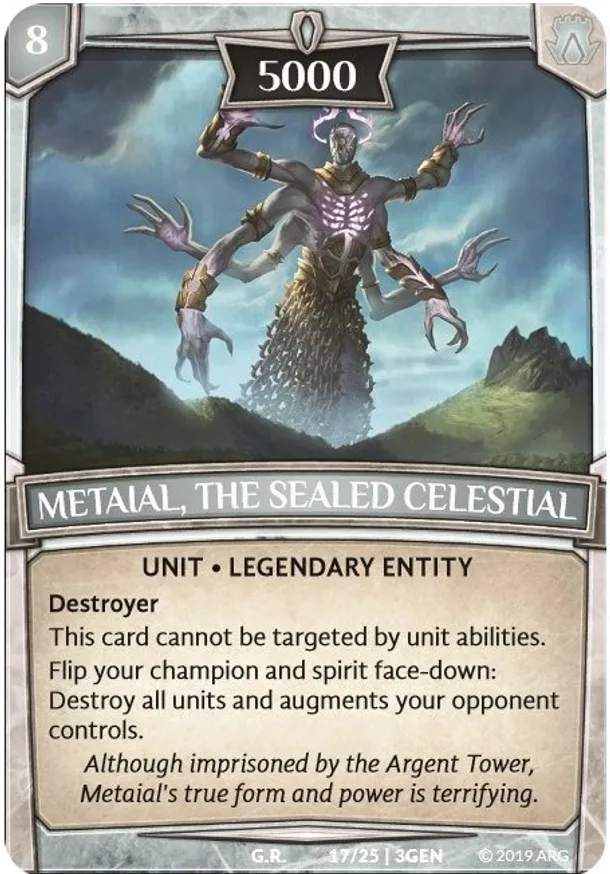
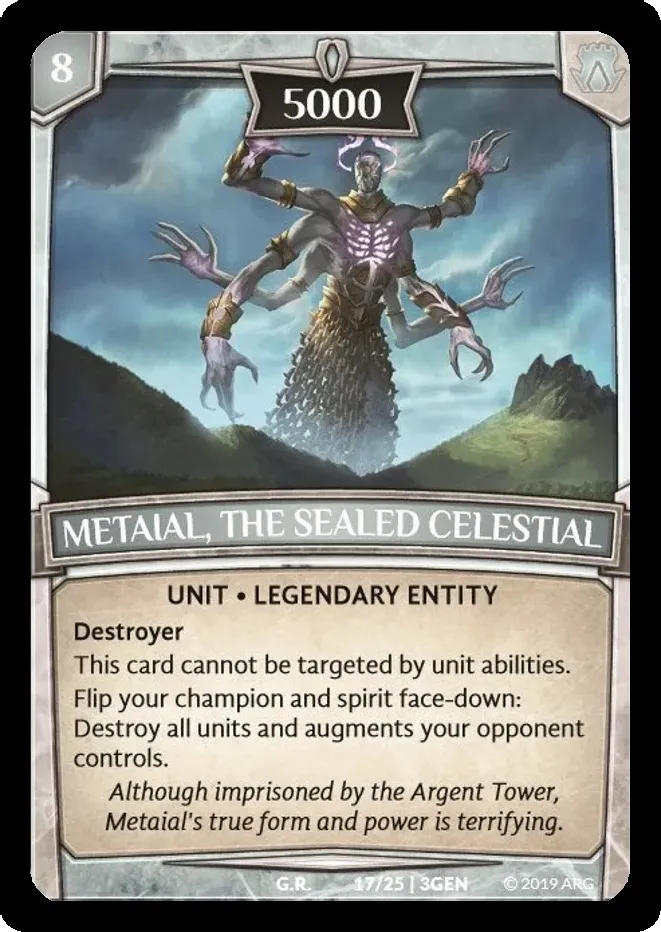
image fix

diff --git a/images/python-scripts/test1.py b/images/python-scripts/test1.py
@@ -23,170 +23,228 @@ def convertImage(filename):
     img = img.convert("RGBA")
     datas = img.getdata()
     width, height = img.size
-    steep = 0
 
     for y in range(height):
         for x in range(width):
             pixel = datas.getpixel((x, y))
-            if y in range(18) and x in range(19):
-                if pixel[0] >= 125 and pixel[1] >= 125 and pixel[2]:
-                    steep += 1
-                if x in range(18) and y == 0:
+            if y in range(33) and x in range(31):
+                if x in range(31) and y == 0:
                     newData1.append((0, 0, 0, 255))
-                elif x in range(14) and y == 1:
+                elif x in range(29) and y == 1:
                     newData1.append((0, 0, 0, 255))
-                elif x in range(11) and y == 2:
+                elif x in range(26) and y == 2:
                     newData1.append((0, 0, 0, 255))
-                elif x in range(10) and y == 3:
+                elif x in range(23) and y == 3:
                     newData1.append((0, 0, 0, 255))
-                elif x in range(8) and y == 4:
+                elif x in range(21) and y == 4:
                     newData1.append((0, 0, 0, 255))
-                elif x in range(7) and y == 5:
+                elif x in range(19) and y == 5:
                     newData1.append((0, 0, 0, 255))
-                elif x in range(6) and y == 6:
+                elif x in range(18) and y == 6:
                     newData1.append((0, 0, 0, 255))
-                elif x in range(5) and y == 7:
+                elif x in range(16) and y == 7:
                     newData1.append((0, 0, 0, 255))
-                elif x in range(4) and y == 8:
+                elif x in range(15) and y == 8:
                     newData1.append((0, 0, 0, 255))
-                elif x in range(4) and y == 9:
+                elif x in range(14) and y == 9:
                     newData1.append((0, 0, 0, 255))
-                elif x in range(3) and y == 10:
+                elif x in range(13) and y == 10:
                     newData1.append((0, 0, 0, 255))
-                elif x in range(2) and y == 11:
+                elif x in range(12) and y == 11:
                     newData1.append((0, 0, 0, 255))
-                elif x in range(2) and y == 12:
+                elif x in range(11) and y == 12:
                     newData1.append((0, 0, 0, 255))
-                elif x in range(2) and y == 13:
+                elif x in range(10) and y == 13:
                     newData1.append((0, 0, 0, 255))
-                elif x in range(1) and y == 14:
+                elif x in range(9) and y == 14:
                     newData1.append((0, 0, 0, 255))
-                elif x in range(1) and y == 15:
+                elif x in range(8) and y == 15:
                     newData1.append((0, 0, 0, 255))
-                elif x in range(1) and y == 16:
+                elif x in range(7) and y == 16:
                     newData1.append((0, 0, 0, 255))
-                elif x in range(1) and y == 17:
+                elif x in range(6) and y == 17:
                     newData1.append((0, 0, 0, 255))
-                else:
-                    newData1.append(pixel)
-            elif y in range(18) and x in range(width - 19, width):
-                if x in range(width - 18, width) and y == 0:
+                elif x in range(6) and y == 18:
                     newData1.append((0, 0, 0, 255))
-                elif x in range(width - 14, width) and y == 1:
+                elif x in range(5) and y == 19:
                     newData1.append((0, 0, 0, 255))
-                elif x in range(width - 11, width) and y == 2:
+                elif x in range(5) and y == 20:
                     newData1.append((0, 0, 0, 255))
-                elif x in range(width - 10, width) and y == 3:
+                elif x in range(4) and y == 21:
                     newData1.append((0, 0, 0, 255))
-                elif x in range(width - 8, width) and y == 4:
+                elif x in range(3) and y == 22:
                     newData1.append((0, 0, 0, 255))
-                elif x in range(width - 7, width) and y == 5:
+                elif x in range(3) and y == 23:
                     newData1.append((0, 0, 0, 255))
-                elif x in range(width - 6, width) and y == 6:
+                elif x in range(2) and y == 24:
                     newData1.append((0, 0, 0, 255))
-                elif x in range(width - 5, width) and y == 7:
+                elif x in range(2) and y == 25:
                     newData1.append((0, 0, 0, 255))
-                elif x in range(width - 4, width) and y == 8:
+                elif x in range(2) and y == 26:
                     newData1.append((0, 0, 0, 255))
-                elif x in range(width - 4, width) and y == 9:
+                elif x in range(2) and y == 27:
                     newData1.append((0, 0, 0, 255))
-                elif x in range(width - 3, width) and y == 10:
-                    newData1.append((0, 0, 0, 255))
-                elif x in range(width - 2, width) and y == 11:
-                    newData1.append((0, 0, 0, 255))
-                elif x in range(width - 2, width) and y == 12:
-                    newData1.append((0, 0, 0, 255))
-                elif x in range(width - 2, width) and y == 13:
-                    newData1.append((0, 0, 0, 255))
-                elif x in range(width - 1, width) and y == 14:
-                    newData1.append((0, 0, 0, 255))
-                elif x in range(width - 1, width) and y == 15:
-                    newData1.append((0, 0, 0, 255))
-                elif x in range(width - 1, width) and y == 16:
-                    newData1.append((0, 0, 0, 255))
-                elif x in range(width - 1, width) and y == 17:
+                elif x in range(1) and y in range(28, 33):
                     newData1.append((0, 0, 0, 255))
                 else:
                     newData1.append(pixel)
-            elif y in range(height - 18, height) and x in range(35):
-                if x in range(1) and y == height - 17:
+            elif y in range(33) and x in range(width - 31, width):
+                if x in range(width - 31, width) and y == 0:
                     newData1.append((0, 0, 0, 255))
-                elif x in range(1) and y == height - 16:
+                elif x in range(width - 29, width) and y == 1:
                     newData1.append((0, 0, 0, 255))
-                elif x in range(1) and y == height - 15:
+                elif x in range(width - 26, width) and y == 2:
                     newData1.append((0, 0, 0, 255))
-                elif x in range(1) and y == height - 14:
+                elif x in range(width - 23, width) and y == 3:
                     newData1.append((0, 0, 0, 255))
-                elif x in range(2) and y == height - 13:
+                elif x in range(width - 21, width) and y == 4:
                     newData1.append((0, 0, 0, 255))
-                elif x in range(2) and y == height - 12:
+                elif x in range(width - 19, width) and y == 5:
                     newData1.append((0, 0, 0, 255))
-                elif x in range(2) and y == height - 11:
+                elif x in range(width - 18, width) and y == 6:
                     newData1.append((0, 0, 0, 255))
-                elif x in range(2) and y == height - 10:
+                elif x in range(width - 16, width) and y == 7:
                     newData1.append((0, 0, 0, 255))
-                elif x in range(3) and y == height - 9:
+                elif x in range(width - 15, width) and y == 8:
                     newData1.append((0, 0, 0, 255))
-                elif x in range(4) and y == height - 8:
+                elif x in range(width - 14, width) and y == 9:
                     newData1.append((0, 0, 0, 255))
-                elif x in range(4) and y == height - 7:
+                elif x in range(width - 13, width) and y == 10:
                     newData1.append((0, 0, 0, 255))
-                elif x in range(5) and y == height - 6:
+                elif x in range(width - 12, width) and y == 11:
                     newData1.append((0, 0, 0, 255))
-                elif x in range(6) and y == height - 5:
+                elif x in range(width - 11, width) and y == 12:
                     newData1.append((0, 0, 0, 255))
-                elif x in range(7) and y == height - 4:
+                elif x in range(width - 10, width) and y == 13:
                     newData1.append((0, 0, 0, 255))
-                elif x in range(8) and y == height - 3:
+                elif x in range(width - 9, width) and y == 14:
                     newData1.append((0, 0, 0, 255))
-                elif x in range(10) and y == height - 2:
+                elif x in range(width - 8, width) and y == 15:
                     newData1.append((0, 0, 0, 255))
-                elif x in range(12) and y == height - 1:
+                elif x in range(width - 7, width) and y == 16:
+                    newData1.append((0, 0, 0, 255))
+                elif x in range(width - 6, width) and y == 17:
+                    newData1.append((0, 0, 0, 255))
+                elif x in range(width - 6, width) and y == 18:
+                    newData1.append((0, 0, 0, 255))
+                elif x in range(width - 5, width) and y == 19:
+                    newData1.append((0, 0, 0, 255))
+                elif x in range(width - 5, width) and y == 20:
+                    newData1.append((0, 0, 0, 255))
+                elif x in range(width - 4, width) and y == 21:
+                    newData1.append((0, 0, 0, 255))
+                elif x in range(width - 3, width) and y == 22:
+                    newData1.append((0, 0, 0, 255))
+                elif x in range(width - 3, width) and y == 23:
+                    newData1.append((0, 0, 0, 255))
+                elif x in range(width - 2, width) and y == 24:
+                    newData1.append((0, 0, 0, 255))
+                elif x in range(width - 2, width) and y == 25:
+                    newData1.append((0, 0, 0, 255))
+                elif x in range(width - 2, width) and y == 26:
+                    newData1.append((0, 0, 0, 255))
+                elif x in range(width - 2, width) and y == 27:
+                    newData1.append((0, 0, 0, 255))
+                elif x in range(width - 1, width) and y in range(28, 33):
                     newData1.append((0, 0, 0, 255))
                 else:
                     newData1.append(pixel)
-            elif y in range(height - 18, height) and x in range(width - 35, width):
-                if x in range(width - 1, width) and y == height - 17:
+            elif y in range(height - 27, height) and x in range(35):
+                if x in range(1) and y in range(height - 27, height - 24):
                     newData1.append((0, 0, 0, 255))
-                elif x in range(width - 1, width) and y == height - 16:
+                elif x in range(2) and y in range(height - 24, height - 19):
                     newData1.append((0, 0, 0, 255))
-                elif x in range(width - 1, width) and y == height - 15:
+                elif x in range(3) and y == height - 19:
                     newData1.append((0, 0, 0, 255))
-                elif x in range(width - 1, width) and y == height - 14:
+                elif x in range(4) and y == height - 18:
                     newData1.append((0, 0, 0, 255))
-                elif x in range(width - 2, width) and y == height - 13:
+                elif x in range(5) and y == height - 17:
                     newData1.append((0, 0, 0, 255))
-                elif x in range(width - 2, width) and y == height - 12:
+                elif x in range(5) and y == height - 16:
                     newData1.append((0, 0, 0, 255))
-                elif x in range(width - 2, width) and y == height - 11:
+                elif x in range(6) and y == height - 15:
                     newData1.append((0, 0, 0, 255))
-                elif x in range(width - 2, width) and y == height - 10:
+                elif x in range(6) and y == height - 14:
                     newData1.append((0, 0, 0, 255))
-                elif x in range(width - 3, width) and y == height - 9:
+                elif x in range(7) and y == height - 13:
                     newData1.append((0, 0, 0, 255))
-                elif x in range(width - 4, width) and y == height - 8:
+                elif x in range(8) and y == height - 12:
                     newData1.append((0, 0, 0, 255))
-                elif x in range(width - 4, width) and y == height - 7:
+                elif x in range(9) and y == height - 11:
                     newData1.append((0, 0, 0, 255))
-                elif x in range(width - 5, width) and y == height - 6:
+                elif x in range(10) and y == height - 10:
                     newData1.append((0, 0, 0, 255))
-                elif x in range(width - 6, width) and y == height - 5:
+                elif x in range(11) and y == height - 9:
                     newData1.append((0, 0, 0, 255))
-                elif x in range(width - 7, width) and y == height - 4:
+                elif x in range(12) and y == height - 8:
                     newData1.append((0, 0, 0, 255))
-                elif x in range(width - 8, width) and y == height - 3:
+                elif x in range(13) and y == height - 7:
                     newData1.append((0, 0, 0, 255))
-                elif x in range(width - 10, width) and y == height - 2:
+                elif x in range(14) and y == height - 6:
                     newData1.append((0, 0, 0, 255))
-                elif x in range(width - 12, width) and y == height - 1:
+                elif x in range(15) and y == height - 5:
+                    newData1.append((0, 0, 0, 255))
+                elif x in range(16) and y == height - 4:
+                    newData1.append((0, 0, 0, 255))
+                elif x in range(18) and y == height - 3:
+                    newData1.append((0, 0, 0, 255))
+                elif x in range(19) and y == height - 2:
+                    newData1.append((0, 0, 0, 255))
+                elif x in range(21) and y == height - 1:
+                    newData1.append((0, 0, 0, 255))
+                else:
+                    newData1.append(pixel)
+            elif y in range(height - 27, height) and x in range(width - 35, width):
+                if x in range(width - 1, width) and y in range(
+                    height - 27, height - 24
+                ):
+                    newData1.append((0, 0, 0, 255))
+                elif x in range(width - 2, width) and y in range(
+                    height - 24, height - 19
+                ):
+                    newData1.append((0, 0, 0, 255))
+                elif x in range(width - 3, width) and y == height - 19:
+                    newData1.append((0, 0, 0, 255))
+                elif x in range(width - 4, width) and y == height - 18:
+                    newData1.append((0, 0, 0, 255))
+                elif x in range(width - 5, width) and y == height - 17:
+                    newData1.append((0, 0, 0, 255))
+                elif x in range(width - 5, width) and y == height - 16:
+                    newData1.append((0, 0, 0, 255))
+                elif x in range(width - 6, width) and y == height - 15:
+                    newData1.append((0, 0, 0, 255))
+                elif x in range(width - 6, width) and y == height - 14:
+                    newData1.append((0, 0, 0, 255))
+                elif x in range(width - 7, width) and y == height - 13:
+                    newData1.append((0, 0, 0, 255))
+                elif x in range(width - 8, width) and y == height - 12:
+                    newData1.append((0, 0, 0, 255))
+                elif x in range(width - 9, width) and y == height - 11:
+                    newData1.append((0, 0, 0, 255))
+                elif x in range(width - 10, width) and y == height - 10:
+                    newData1.append((0, 0, 0, 255))
+                elif x in range(width - 11, width) and y == height - 9:
+                    newData1.append((0, 0, 0, 255))
+                elif x in range(width - 12, width) and y == height - 8:
+                    newData1.append((0, 0, 0, 255))
+                elif x in range(width - 13, width) and y == height - 7:
+                    newData1.append((0, 0, 0, 255))
+                elif x in range(width - 14, width) and y == height - 6:
+                    newData1.append((0, 0, 0, 255))
+                elif x in range(width - 15, width) and y == height - 5:
+                    newData1.append((0, 0, 0, 255))
+                elif x in range(width - 16, width) and y == height - 4:
+                    newData1.append((0, 0, 0, 255))
+                elif x in range(width - 18, width) and y == height - 3:
+                    newData1.append((0, 0, 0, 255))
+                elif x in range(width - 19, width) and y == height - 2:
+                    newData1.append((0, 0, 0, 255))
+                elif x in range(width - 21, width) and y == height - 1:
                     newData1.append((0, 0, 0, 255))
                 else:
                     newData1.append(pixel)
             else:
                 newData1.append(pixel)
-        if steep != 0:
-            print(steep)
-        steep = 0
 
     img.putdata(newData1)
 
@@ -283,8 +341,6 @@ def findBottomSide(datas, wi, hi):
                 return y
 
 
-directory = "../Expansion-Pack-Genesis/"
+directory = "../Expansion-Pack-Generations/"
 
-for filename in os.listdir(directory):
-    if ".webp" in filename:
-        convertImage(directory + filename)
+convertImage(directory + "raging-shardbeast.webp")
